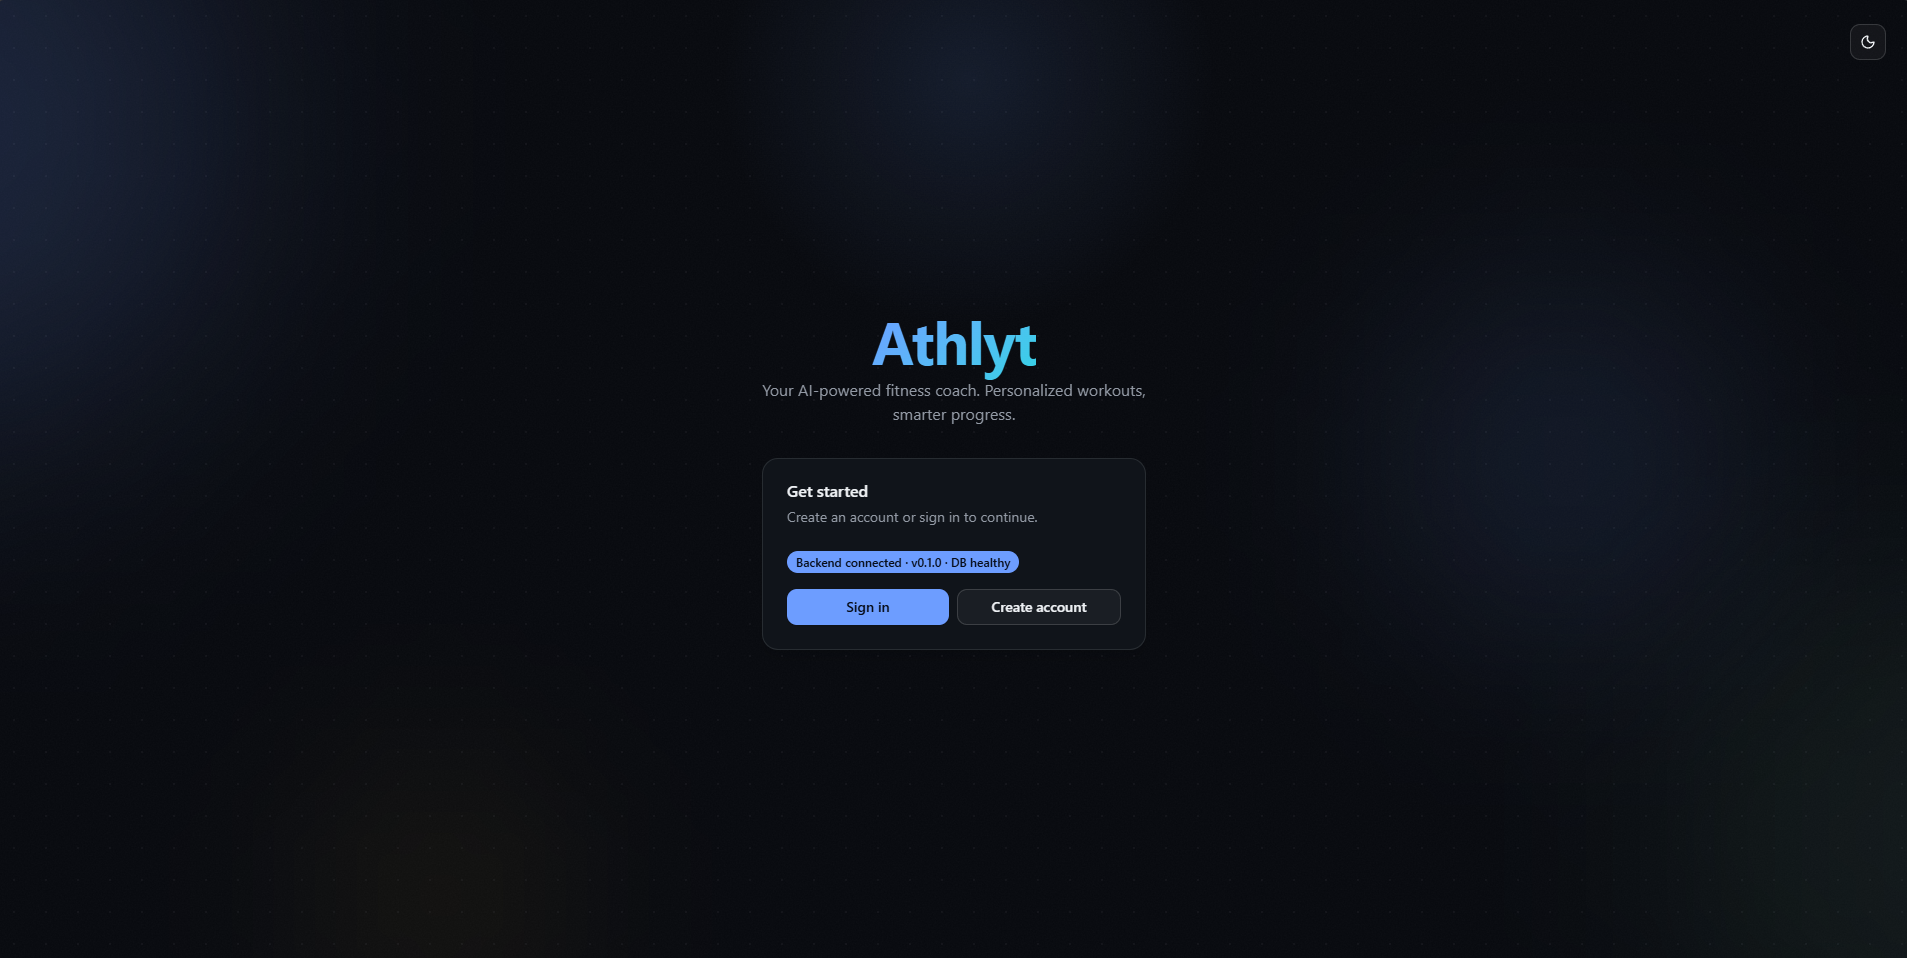
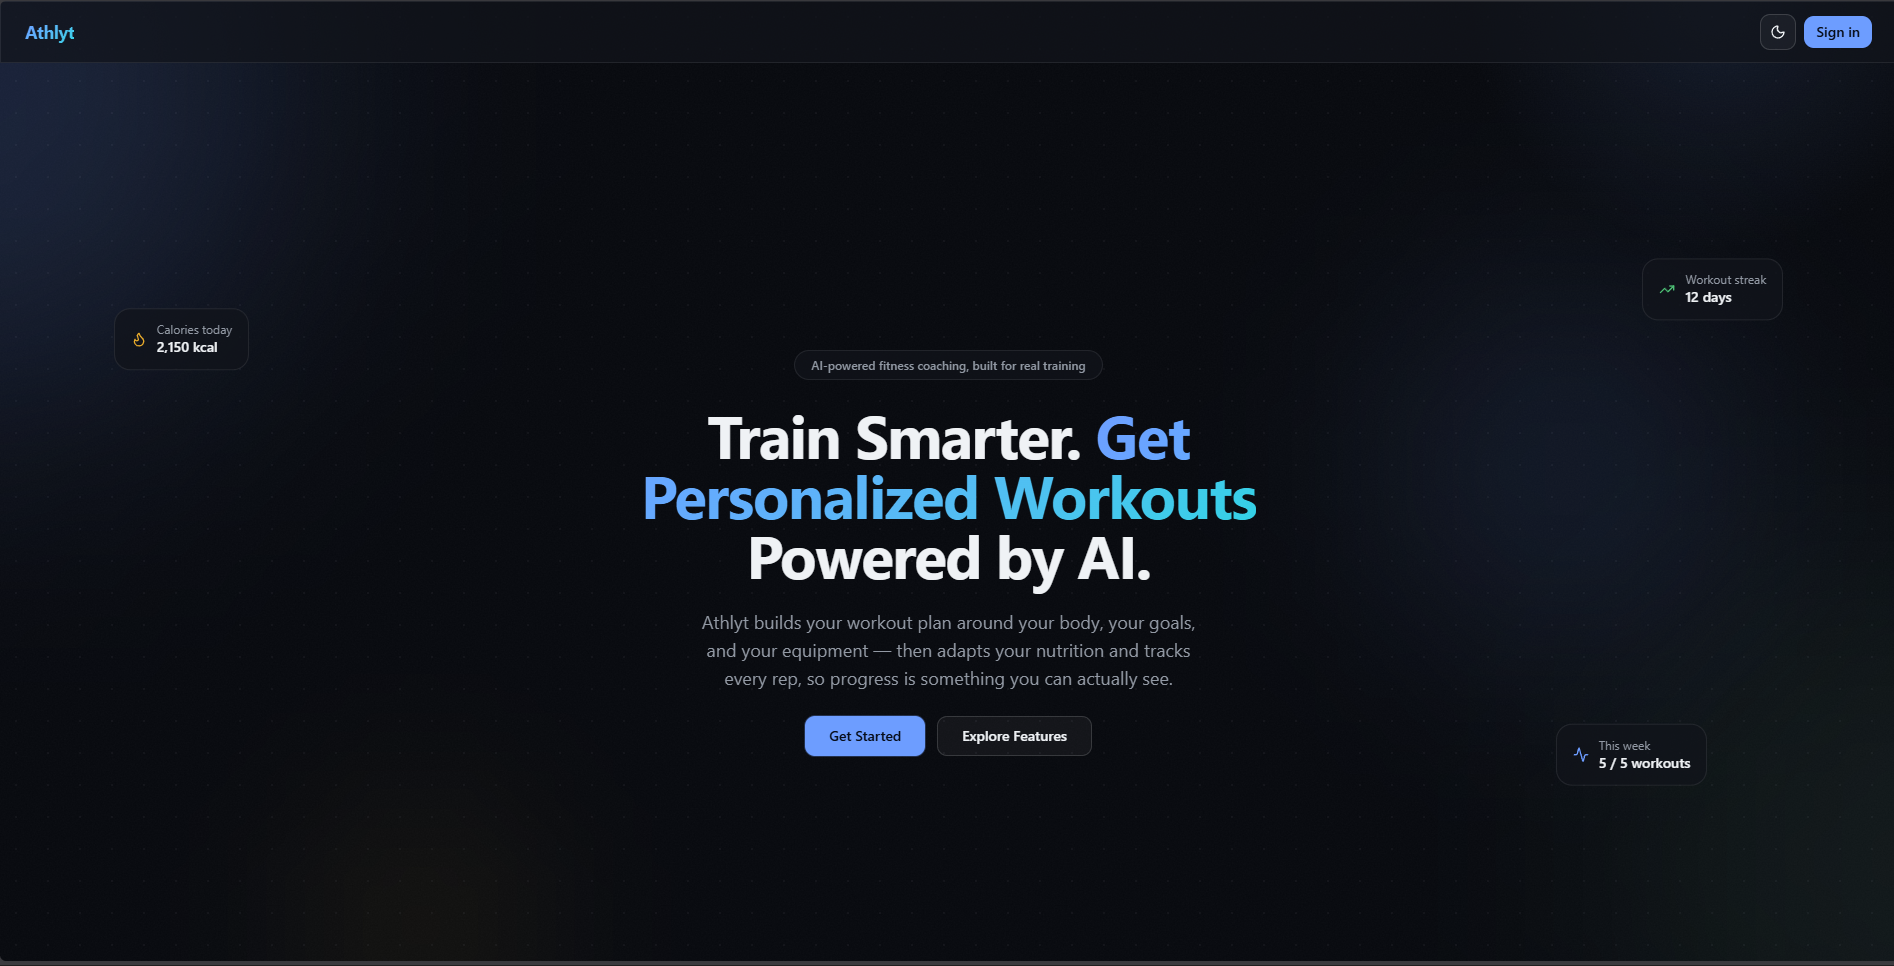
docs: fix corrupted Docker section, add ML training section, update roadmap
- Fixed Docker section table/commands that had been corrupted (empty
  cells, missing variable names from an earlier automated edit)
- Added a Machine Learning section documenting the trained model
  (98.4% test accuracy, 100k synthetic dataset) and its integration status
- Moved 'ML model trained' from Roadmap Remaining to Completed;
  added the real remaining item (backend integration + the bro_split
  rule engine bug discovered along the way)
- Added CHANGELOG.md and docs/ML_ARCHITECTURE.md links
- Fixed project structure diagram (missing ml/data/, ML_TRAINING.md,
  app/ml/ inference layer)
- Updated test count 220 -> 222, SQLite/Postgres description accuracy
- Replaced stale landing.png screenshot with current redesigned landing page

diff --git a/README.md b/README.md
@@ -10,7 +10,7 @@ An AI-powered fitness coaching platform — personalised workout plans, nutritio
 
 [![Backend CI](https://github.com/Hardikabrol8/Athlyt/actions/workflows/backend-ci.yml/badge.svg)](https://github.com/Hardikabrol8/Athlyt/actions/workflows/backend-ci.yml)
 [![Frontend CI](https://github.com/Hardikabrol8/Athlyt/actions/workflows/frontend-ci.yml/badge.svg)](https://github.com/Hardikabrol8/Athlyt/actions/workflows/frontend-ci.yml)
-[![Backend Tests](https://img.shields.io/badge/tests-220%20passing-brightgreen)](backend/tests)
+[![Backend Tests](https://img.shields.io/badge/tests-222%20passing-brightgreen)](backend/tests)
 [![Python](https://img.shields.io/badge/python-3.12-blue)](backend/pyproject.toml)
 [![Next.js](https://img.shields.io/badge/Next.js-15-black)](frontend/package.json)
 [![License](https://img.shields.io/badge/license-MIT-blue)](LICENSE)
@@ -18,8 +18,6 @@ An AI-powered fitness coaching platform — personalised workout plans, nutritio
 </div>
 
 > **Note:** the live demo runs on Render's free tier, which sleeps after ~15 minutes of inactivity. The first request after a period of inactivity may take 30–60 seconds to respond while the backend wakes up — this is expected free-tier behavior, not a bug.
-
----
 
 ---
 
@@ -60,7 +58,8 @@ An AI-powered fitness coaching platform — personalised workout plans, nutritio
 | **Statistics** | Streaks, personal records, weekly volume, 365-day activity heatmap |
 | **Progress** | Weight/body fat/sleep logging, body measurements, weight trend chart |
 | **Nutrition** | Rule-based meal plan generation (non-veg/vegetarian/vegan), daily macro logging |
-| **UI** | Dark mode, cursor-following glow, ambient gradient orbs, 3D tilt cards, responsive sidebar |
+| **Machine Learning** | RandomForestClassifier trained on 100,000 synthetic profiles (98.4% test accuracy) to predict workout-split recommendations — trained and evaluated, not yet swapped in for the rule engine in production. See [ML section](#machine-learning) below. |
+| **UI** | Premium landing page, split-screen auth, dark mode, cursor-following glow, ambient gradient orbs, 3D tilt cards, responsive sidebar |
 
 ---
 
@@ -70,9 +69,11 @@ An AI-powered fitness coaching platform — personalised workout plans, nutritio
 |---|---|
 | **Frontend** | Next.js 15, TypeScript, Tailwind CSS v4, shadcn/ui, Framer Motion, Recharts |
 | **Backend** | FastAPI, SQLAlchemy 2.0, Pydantic v2, PyJWT, bcrypt |
-| **Database** | SQLite (dev) / PostgreSQL-compatible (prod) |
-| **ML** | scikit-learn — trained offline in Colab, loaded via joblib |
-| **Testing** | pytest (220 tests), ruff, black |
+| **Database** | SQLite (dev) / PostgreSQL via Neon (prod) |
+| **ML** | scikit-learn (RandomForestClassifier), trained in Colab, loaded via joblib |
+| **Testing** | pytest (222 tests), ruff, black |
+| **CI/CD** | GitHub Actions (backend + frontend, on every push/PR) |
+| **Containerization** | Docker + Docker Compose (backend, frontend, PostgreSQL) |
 
 ---
 
@@ -81,15 +82,31 @@ An AI-powered fitness coaching platform — personalised workout plans, nutritio
 ```
 Browser
   └── Next.js 15 (Vercel)
-        └── FastAPI /api/v1 (Render/Railway)
-              ├── Router → Service → Repository → SQLAlchemy ORM → SQLite/PostgreSQL
-              └── ML inference layer (joblib model, loaded at startup)
+        └── FastAPI /api/v1 (Render)
+              ├── Router → Service → Repository → SQLAlchemy ORM → PostgreSQL (Neon)
+              └── ML inference layer (joblib model, trained — integration planned, not yet wired in)
 ```
 
 Full architecture documentation: [docs/ARCHITECTURE.md](docs/ARCHITECTURE.md)
 
 ---
 
+## Machine Learning
+
+A `RandomForestClassifier` has been trained to predict the same workout-split recommendation the rule engine produces — trained on 100,000 synthetic user profiles, each labeled by directly calling the real, deployed rule engine (not an approximation of it).
+
+| Metric | Result |
+|---|---|
+| Test accuracy | 98.44% |
+| Test F1 (macro) | 98.65% |
+| Dataset size | 100,000 synthetic profiles |
+| Model size | 71 MB (Git LFS) |
+
+**A genuine bug was discovered along the way:** one of the six workout splits (`bro_split`) can never actually be recommended by the current rule engine, under any input — verified exhaustively. See [ml/ML_TRAINING.md](ml/ML_TRAINING.md) for the full root-cause explanation.
+
+**Current status:** trained and evaluated, **not yet integrated into the backend** — the rule engine remains the only active recommendation engine in production. See [docs/ML_ARCHITECTURE.md](docs/ML_ARCHITECTURE.md) for the full integration design and [ml/ML_TRAINING.md](ml/ML_TRAINING.md) for the training pipeline, dataset generation, and evaluation writeup.
+
+> Model files (`ml/models/*.joblib`) are tracked via [Git LFS](https://git-lfs.github.com) — run `git lfs install` once before cloning to pull them correctly.
 
 ---
 
@@ -123,15 +140,15 @@ docker compose up --build
 
 | Service | Port | Description |
 |---|---|---|
-|  | 3000 | Next.js 15 production build |
-|  | 8000 | FastAPI + Uvicorn |
-|  | 5432 | PostgreSQL 16 (data persisted in Docker volume) |
+| `frontend` | 3000 | Next.js 15 production build |
+| `backend` | 8000 | FastAPI + Uvicorn |
+| `postgres` | 5432 | PostgreSQL 16 (data persisted in a Docker volume) |
 
 ### Development mode (hot reload)
 
-The  is applied automatically and enables:
-- Backend hot-reload (source mounted, uvicorn )
-- Frontend hot-reload (source mounted, )
+`docker-compose.override.yml` is applied automatically and enables:
+- Backend hot-reload (source mounted, `uvicorn --reload`)
+- Frontend hot-reload (source mounted, `npm run dev`)
 
 ```bash
 # Development mode is the default — no extra flags needed
@@ -171,22 +188,24 @@ docker compose exec postgres psql -U athlyt -d athlyt
 docker compose up --build backend
 ```
 
-### Environment variables
+### Environment variables (Docker Compose)
 
-All configuration is in the root  file (copied from ):
+All configuration is in the root `.env` file (copied from `.env.example`):
 
 | Variable | Required | Description |
 |---|---|---|
-|  | ✅ | Random string ≥ 32 chars |
-|  | ✅ | Database password |
-|  | — | Default:  |
-|  | — | Default:  |
-|  | — | Default:  |
-|  | — | Default:  |
+| `JWT_SECRET_KEY` | ✅ | Random string ≥ 32 chars |
+| `POSTGRES_PASSWORD` | ✅ | Database password |
+| `CORS_ORIGINS` | — | Default: `http://localhost:3000` |
+| `ALLOWED_HOSTS` | — | Default: `*` |
+| `ENVIRONMENT` | — | Default: `production` |
+| `NEXT_PUBLIC_API_URL` | — | Default: `http://localhost:8000/api/v1` |
 
-> **Note:**  is baked into the Next.js bundle at **build time**. Changing it after the image is built requires a rebuild ().
+> **Note:** `NEXT_PUBLIC_API_URL` is baked into the Next.js bundle at **build time**. Changing it after the image is built requires a rebuild (`docker compose up --build frontend`).
 
-## Quick start
+---
+
+## Quick start (without Docker)
 
 ### Prerequisites
 - Python 3.12+
@@ -219,7 +238,6 @@ cd frontend
 npm install
 
 # Configure environment
-# Create .env.local:
 echo "NEXT_PUBLIC_API_URL=http://localhost:8000/api/v1" > .env.local
 
 npm run dev
@@ -256,26 +274,32 @@ athlyt/
 ├── backend/
 │   ├── app/
 │   │   ├── api/v1/routers/   — HTTP endpoints (thin layer)
-│   │   ├── services/          — Business logic
-│   │   ├── repositories/      — Database access
-│   │   ├── models/            — SQLAlchemy ORM models
-│   │   ├── schemas/           — Pydantic request/response schemas
-│   │   ├── core/              — Config, security, exceptions
-│   │   └── db/                — Engine, session, seed data
-│   └── tests/                 — 220 pytest tests
+│   │   ├── services/         — Business logic
+│   │   ├── repositories/     — Database access
+│   │   ├── models/           — SQLAlchemy ORM models
+│   │   ├── schemas/          — Pydantic request/response schemas
+│   │   ├── core/             — Config, security, logging, exceptions
+│   │   ├── db/                — Engine, session, seed data
+│   │   └── ml/                — Inference layer (planned integration point)
+│   ├── alembic/               — Database migrations
+│   └── tests/                 — 222 pytest tests
 ├── frontend/
 │   ├── app/                   — Next.js App Router pages
-│   ├── components/            — UI components (shared + domain)
+│   ├── components/            — UI components (shared, landing, auth, domain)
 │   ├── hooks/                 — TanStack Query data hooks
 │   ├── lib/                   — API client, validators, utilities
 │   └── types/                 — TypeScript interfaces
 ├── ml/
-│   ├── notebooks/             — Colab training notebooks
-│   └── models/                — Exported .joblib artifacts
-├── DEPLOYMENT.md              — Step-by-step production deployment guide
+│   ├── notebooks/             — generate_dataset.py + train_model.ipynb
+│   ├── data/                  — dataset.csv (100,000 synthetic profiles)
+│   ├── models/                — model.joblib, preprocessor.joblib, evaluation_report.md
+│   └── ML_TRAINING.md         — full training pipeline writeup
+├── DEPLOYMENT.md               — Step-by-step production deployment guide
+├── CHANGELOG.md                — Version history
 └── docs/
     ├── ARCHITECTURE.md
     ├── DATABASE_SCHEMA.md
+    ├── ML_ARCHITECTURE.md
     ├── PROJECT_BIBLE.md
     └── API_REFERENCE.md
 ```
@@ -310,7 +334,7 @@ Health:      GET  /health, /health/detailed
 ## Testing
 
 ```bash
-# Backend — 220 tests
+# Backend — 222 tests
 cd backend && pytest
 
 # Lint & format
@@ -360,7 +384,7 @@ See [DEPLOYMENT.md](DEPLOYMENT.md) for the complete step-by-step guide this depl
 
 13 tables. See [docs/DATABASE_SCHEMA.md](docs/DATABASE_SCHEMA.md) for the full schema.
 
-Key design: SQLite in dev, PostgreSQL-compatible by design (UUIDs as `String(36)`, enums as `VARCHAR` with `native_enum=False`, no SQLite-specific SQL anywhere).
+Key design: PostgreSQL in production (Neon), SQLite in local dev — one shared schema, no dialect-specific SQL anywhere (UUIDs as `String(36)`, enums as `VARCHAR` with `native_enum=False`).
 
 ---
 
@@ -372,14 +396,19 @@ Key design: SQLite in dev, PostgreSQL-compatible by design (UUIDs as `String(36)
 - [x] CI/CD (GitHub Actions — backend + frontend)
 - [x] Production deployment (Vercel + Render + Neon PostgreSQL)
 - [x] Structured logging, security headers, trusted-host protection
+- [x] Premium landing page + split-screen auth redesign
+- [x] ML model trained and evaluated (RandomForestClassifier, 98.4% test accuracy)
 
 **Remaining:**
-- [ ] ML workout recommendation model (scikit-learn, Colab training pipeline — inference layer already wired, awaiting a trained artifact)
+- [ ] ML model integration into the backend (`MLRecommendationService`, behind a fallback to the rule engine — design complete, see [docs/ML_ARCHITECTURE.md](docs/ML_ARCHITECTURE.md))
+- [ ] Fix the `bro_split` dead-code bug in the rule engine (discovered during ML dataset generation — see [ml/ML_TRAINING.md](ml/ML_TRAINING.md))
 - [ ] AI coach (LLM-backed chatbot)
 - [ ] Progress photo upload (S3/R2)
 - [ ] Email verification + password reset
 - [ ] Push notifications / workout reminders
 - [ ] Refresh-token rotation (currently a single 7-day access token)
+
+Full version history: [CHANGELOG.md](CHANGELOG.md)
 
 ---
 
@@ -395,6 +424,7 @@ A few non-obvious choices worth knowing:
 - **Cursor glow on `requestAnimationFrame`** — style mutations bypass React's render cycle entirely; stays at 60fps on heavy pages.
 - **`app.*` loggers have no handlers of their own** — they propagate to root, which has the one handler. Giving `app` its own handler too would either double-log every line or require `propagate=False`, which would silently break log capture in tests (`caplog` listens at root). See `backend/app/core/logging_config.py`.
 - **Custom `Exception` handler explicitly calls `logger.exception(...)`** — registering any handler for the bare `Exception` class replaces Starlette's default `ServerErrorMiddleware`, which is what normally logs unhandled tracebacks. Without the explicit call, production 500s would be completely silent in the logs.
+- **ML labels come from the real rule engine, not an approximation of it** — the training dataset was generated by directly calling `RuleBasedRecommendationEngine`, which is also what surfaced the `bro_split` dead-code bug. See [ml/ML_TRAINING.md](ml/ML_TRAINING.md).
 
 Full decision log: [docs/ARCHITECTURE.md](docs/ARCHITECTURE.md) and [docs/PROJECT_BIBLE.md](docs/PROJECT_BIBLE.md).
 
